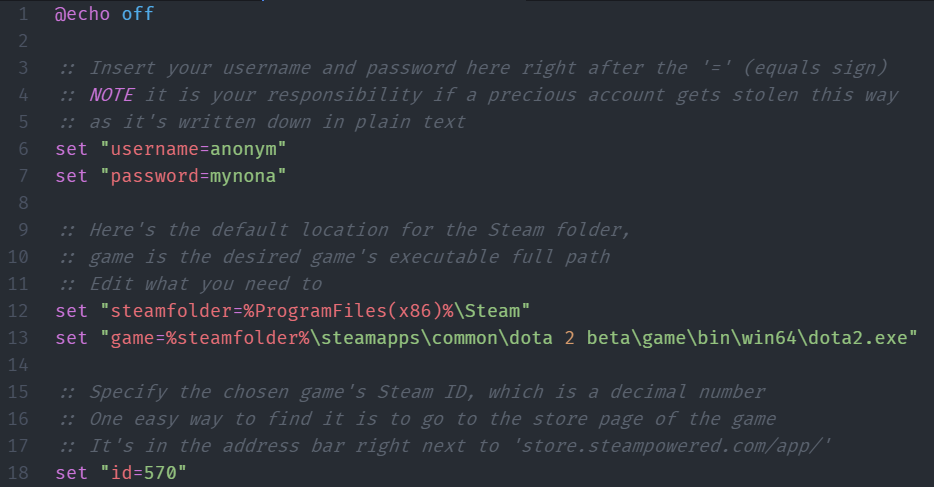
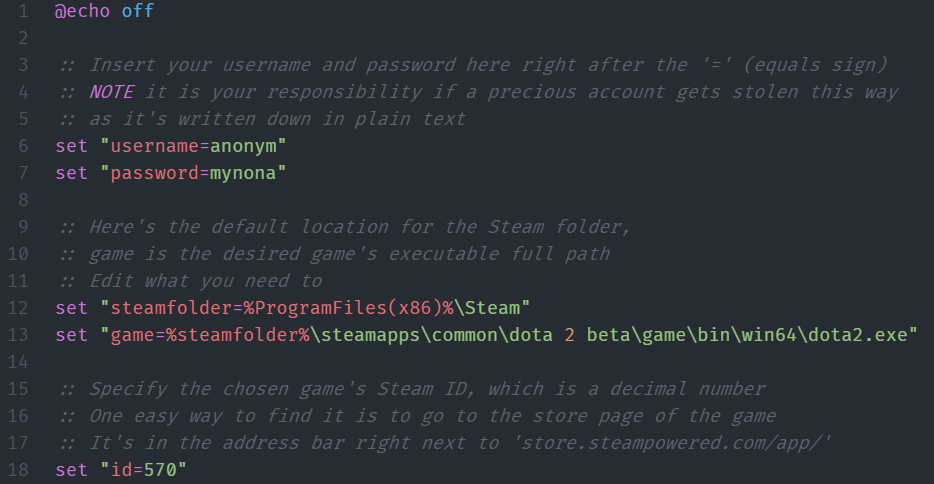
Fixed incorrect image demo1.png

diff --git a/README.md b/README.md
@@ -40,4 +40,4 @@ When you launch this script, it will ask you for some information it requires :
 After it has been fed with some appropriate information, it won't bother you anymore with questions, and 
 will just fulfill it's purpose as quickly as possible.
 
-![demo](https://raw.githubusercontent.com/FLevent29/steam-smurf/master/demo1.png)
+![demo1](https://raw.githubusercontent.com/FLevent29/steam-smurf/master/demo1.png?raw=true)
